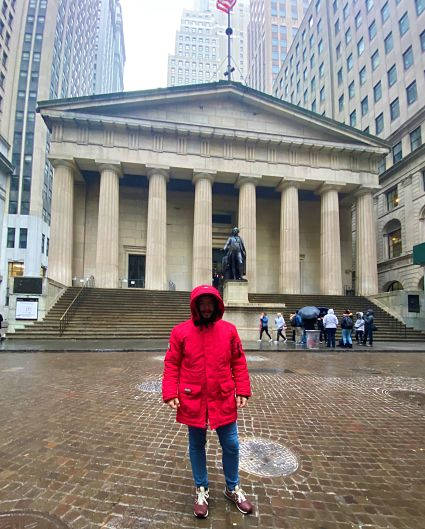
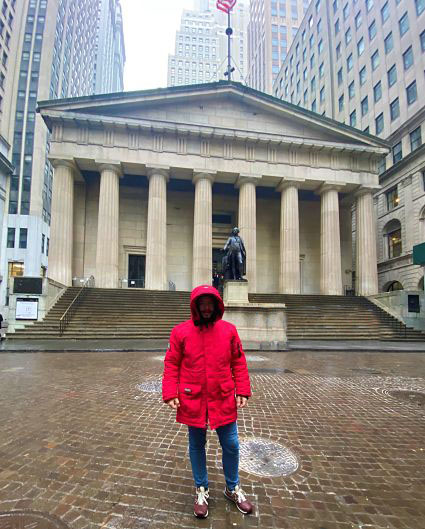
feat: eliminadas personas de algunas fotos

Changed region(s): [[0.6118, 0.5747, 0.9176, 0.6654]]

diff --git a/src/app/paginas/castilla/cuenca/cuenca.component.html b/src/app/paginas/castilla/cuenca/cuenca.component.html
@@ -1,138 +1,138 @@
 <div class="container">
-    <div class="row mt-5">
-        <div class="col-md-12 col-sm-12 mt-5 animated fadeIn slower">
-            <h1 class="tituloViaje text-center">Castilla la Mancha</h1>
-        </div>
+  <div class="row mt-5">
+    <div class="col-md-12 col-sm-12 mt-5 animated fadeIn slower">
+      <h1 class="tituloViaje text-center">Castilla la Mancha</h1>
     </div>
-    <div class="row">
-        <div class="col-md-12 col-sm-12 animated fadeIn slower">
-            <h1 class="tituloDiario text-center mb-3">Cuenca</h1>
-        </div>
+  </div>
+  <div class="row">
+    <div class="col-md-12 col-sm-12 animated fadeIn slower text-center">
+      <img class="panoramica mt-5 mb-5 slower" src="../../../assets/imagenes/galeriaCastilla/cuencapano.jpg">
     </div>
-    <div class="row">
-        <div class="col-md-12 col-sm-12 animated fadeIn slower text-center">
-            <img class="panoramica mt-5 mb-5 slower" src="../../../assets/imagenes/galeriaCastilla/cuencapano.jpg">
-        </div>
+  </div>
+  <div class="row">
+    <div class="col-md-12 col-sm-12 animated fadeIn slower">
+      <h1 class="tituloDiario text-center mb-3">Cuenca</h1>
     </div>
-    <div class="row">
-        <div class="col-md-12 col-sm-12 animated fadeIn slower text-justify">
-            Cuenca es otra de las ciudades castellanas que hay que visitar al menos una vez en la vida, sus casas
-            colgadas y sus calles intramuros que te trasladan al Siglo de Oro por su arquitectura de edificios
-            centenarios, todo esto no dejará lugar a dudas para catalogarla de ciudad preciosa y mágica. Por algo fue
-            denominada como Patrimonio de la Humanidad en 1996.
-        </div>
+  </div>
+  <div class="row">
+    <div class="col-md-12 col-sm-12 animated fadeIn slower text-justify">
+      Cuenca es otra de las ciudades castellanas que hay que visitar al menos una vez en la vida, sus casas
+      colgadas y sus calles intramuros que te trasladan al Siglo de Oro por su arquitectura de edificios
+      centenarios, todo esto no dejará lugar a dudas para catalogarla de ciudad preciosa y mágica. Por algo fue
+      denominada como Patrimonio de la Humanidad en 1996.
     </div>
-    <div class="row">
-        <div class="col-md-12 col-sm-12 animated fadeIn slower text-justify">
-            Por su ubicación imposible en las montañas y el transito del río Júcar a sus pies sus pobladores se remontan
-            al Paleolítico Superior, ahí es nada, pero es bajo dominio musulmán cuando se construye la primera fortaleza
-            en Qünka, nombre árabe. Conquistado por Alfonso VIII en 1177 fue uno de los grandes fueros castellanos del
-            medievo. Desde el siglo XVII la ciudad fue en decadencia hasta nuestros días que se trata de una de las
-            ciudades con más nombre de la España vaciada, hoy intentan hacer crecer el turismo gracias a su enorme
-            patrimonio cultural.
-        </div>
+  </div>
+  <div class="row">
+    <div class="col-md-12 col-sm-12 animated fadeIn slower text-justify">
+      Por su ubicación imposible en las montañas y el transito del río Júcar a sus pies sus pobladores se remontan
+      al Paleolítico Superior, ahí es nada, pero es bajo dominio musulmán cuando se construye la primera fortaleza
+      en Qünka, nombre árabe. Conquistado por Alfonso VIII en 1177 fue uno de los grandes fueros castellanos del
+      medievo. Desde el siglo XVII la ciudad fue en decadencia hasta nuestros días que se trata de una de las
+      ciudades con más nombre de la España vaciada, hoy intentan hacer crecer el turismo gracias a su enorme
+      patrimonio cultural.
     </div>
+  </div>
 
-    <div class="row">
-        <div class="col-md-12 col-sm-12 animated fadeIn slower text-justify">
-            Por empezar por algún lado podemos irnos al Convento de San Pablo, este convento construido por orden de los
-            dominicos en 1523 es un lugar sin parangón, se encuentra en una colina que une con las casas colgadas por el
-            puente del mismo nombre, hoy es un parador. Por ese mismo puente cruzaremos, pero antes unos datos, está a
-            40 metros de altura, construido en hierro y madera, prepararos para pasar vértigo, aunque no padezcáis mucho
-            del mismo, pero la experiencia mires a donde mires no tiene igual.
-        </div>
+  <div class="row">
+    <div class="col-md-12 col-sm-12 animated fadeIn slower text-justify">
+      Por empezar por algún lado podemos irnos al Convento de San Pablo, este convento construido por orden de los
+      dominicos en 1523 es un lugar sin parangón, se encuentra en una colina que une con las casas colgadas por el
+      puente del mismo nombre, hoy es un parador. Por ese mismo puente cruzaremos, pero antes unos datos, está a
+      40 metros de altura, construido en hierro y madera, prepararos para pasar vértigo, aunque no padezcáis mucho
+      del mismo, pero la experiencia mires a donde mires no tiene igual.
     </div>
-    <div class="row">
-        <div class="col-md-4 animated fadeIn slower mt-3 mb-1 text-center">
-            <img src="../../../assets/imagenes/galeriaCastilla/cuenca2.jpg" class="imgcronica slower">
-        </div>
-        <div class="col-md-4 animated fadeIn slower mt-3 mb-1 text-center">
-            <img src="../../../assets/imagenes/galeriaCastilla/cuenca3.jpg" class="imgcronica slower">
-        </div>
-        <div class="col-md-4 animated fadeIn slower mt-3 mb-1 text-center">
-            <img src="../../../assets/imagenes/galeriaCastilla/cuenca4.jpg" class="imgcronica slower">
-        </div>
+  </div>
+  <div class="row">
+    <div class="col-md-4 animated fadeIn slower mt-3 mb-1 text-center">
+      <img src="../../../assets/imagenes/galeriaCastilla/cuenca2.jpg" class="imgcronica slower">
     </div>
-    <div class="row">
-        <div class="col-md-12 col-sm-12 animated fadeIn slower text-justify">
-            Al otro lado nos esperan las famosas casas colgadas, imagen de la ciudad. Desde luego lo primero que nos
-            preguntamos es cómo es posible que hace más de 600 años construyesen las casas ahí. Hoy solo quedan tres, se
-            pueden visitar la casa de la Sirena, hoy restaurante, y la casa del Rey, hoy convertido en museo de arte
-            contemporáneo, nosotros elegimos este y nos encantó el contraste entre el arte actual y el vetusto edificio.
-        </div>
+    <div class="col-md-4 animated fadeIn slower mt-3 mb-1 text-center">
+      <img src="../../../assets/imagenes/galeriaCastilla/cuenca3.jpg" class="imgcronica slower">
     </div>
-    <div class="row">
-        <div class="col-md-12 col-sm-12 animated fadeIn slower text-justify">
-            La catedral se mandó construir con la toma de la ciudad por orden del monarca, aunque en España se construía
-            en románico esta fue construida en estilo gótico por la influencia normanda de la corte de la reina Leonor
-            de Plantagenet. Lo más destacable de su estilo es el primer gótico que no se estila en España y la hace
-            única, parece francesa. El precio es de 4,5€.
-        </div>
+    <div class="col-md-4 animated fadeIn slower mt-3 mb-1 text-center">
+      <img src="../../../assets/imagenes/galeriaCastilla/cuenca4.jpg" class="imgcronica slower">
     </div>
-    <div class="row">
-        <div class="col-md-12 col-sm-12 animated fadeIn slower text-justify">
-            En la misma plaza Mayor se encuentran tanto la catedral, como el ayuntamiento barroco, como las casas de
-            colores y el convento de las Petras. Es una zona de bares para tomar algo a cualquier hora.
-        </div>
+  </div>
+  <div class="row">
+    <div class="col-md-12 col-sm-12 animated fadeIn slower text-justify">
+      Al otro lado nos esperan las famosas casas colgadas, imagen de la ciudad. Desde luego lo primero que nos
+      preguntamos es cómo es posible que hace más de 600 años construyesen las casas ahí. Hoy solo quedan tres, se
+      pueden visitar la casa de la Sirena, hoy restaurante, y la casa del Rey, hoy convertido en museo de arte
+      contemporáneo, nosotros elegimos este y nos encantó el contraste entre el arte actual y el vetusto edificio.
     </div>
-    <div class="row">
-        <div class="col-md-12 col-sm-12 animated fadeIn slower text-justify">
-            El barrio del Castillo es una pasada, no por el castillo en sí que se encuentra en ruinas y solo queda el
-            arco de Bezudo sino por el paseo alrededor del casco histórico entre las hoces del Júcar y el Húecar.
-            También podréis visitar la Torre de Mangana, torre que parece más florentina que castellana y el convento de
-            San José, hoy convertido en hotel.
-        </div>
+  </div>
+  <div class="row">
+    <div class="col-md-12 col-sm-12 animated fadeIn slower text-justify">
+      La catedral se mandó construir con la toma de la ciudad por orden del monarca, aunque en España se construía
+      en románico esta fue construida en estilo gótico por la influencia normanda de la corte de la reina Leonor
+      de Plantagenet. Lo más destacable de su estilo es el primer gótico que no se estila en España y la hace
+      única, parece francesa. El precio es de 4,5€.
     </div>
-    <div class="row">
-        <div class="col-md-12 col-sm-12 animated fadeIn slower text-justify">
-            En la parte baja podemos encontrar el barrio de San Martín y sus famosos rascacielos, curiosas edificaciones
-            de hasta diez alturas al borde del Júcar, nosotros nos hospedamos en uno y las ventanas dan al río, vamos
-            que puedes saltar al agua sin ningún obstáculo en verano, ¡por favor no lo hagáis!
-        </div>
+  </div>
+  <div class="row">
+    <div class="col-md-12 col-sm-12 animated fadeIn slower text-justify">
+      En la misma plaza Mayor se encuentran tanto la catedral, como el ayuntamiento barroco, como las casas de
+      colores y el convento de las Petras. Es una zona de bares para tomar algo a cualquier hora.
     </div>
-    <div class="row">
-        <div class="col-md-6 animated fadeIn slower mt-3 mb-1 text-center">
-            <img src="../../../assets/imagenes/galeriaCastilla/cuenca5.jpg" class="imgcronica slower">
-        </div>
-        <div class="col-md-6 animated fadeIn slower mt-3 mb-1 text-center">
-            <img src="../../../assets/imagenes/galeriaCastilla/cuenca6.jpg" class="imgcronica slower">
-        </div>
+  </div>
+  <div class="row">
+    <div class="col-md-12 col-sm-12 animated fadeIn slower text-justify">
+      El barrio del Castillo es una pasada, no por el castillo en sí que se encuentra en ruinas y solo queda el
+      arco de Bezudo sino por el paseo alrededor del casco histórico entre las hoces del Júcar y el Húecar.
+      También podréis visitar la Torre de Mangana, torre que parece más florentina que castellana y el convento de
+      San José, hoy convertido en hotel.
     </div>
-    <div class="row">
-        <div class="col-md-12 col-sm-12 animated fadeIn slower">
-            <h1 class="tituloDiario text-center mt-3 mb-3">SEGÓBRIGA</h1>
-        </div>
+  </div>
+  <div class="row">
+    <div class="col-md-12 col-sm-12 animated fadeIn slower text-justify">
+      En la parte baja podemos encontrar el barrio de San Martín y sus famosos rascacielos, curiosas edificaciones
+      de hasta diez alturas al borde del Júcar, nosotros nos hospedamos en uno y las ventanas dan al río, vamos
+      que puedes saltar al agua sin ningún obstáculo en verano, ¡por favor no lo hagáis!
     </div>
-    <div class="row">
-        <div class="col-md-12 col-sm-12 animated fadeIn slower text-center">
-            <img class="panoramica mt-5 mb-5 slower" src="../../../assets/imagenes/galeriaCastilla/segobriga.jpg">
-        </div>
+  </div>
+  <div class="row">
+    <div class="col-md-6 animated fadeIn slower mt-3 mb-1 text-center">
+      <img src="../../../assets/imagenes/galeriaCastilla/cuenca5.jpg" class="imgcronica slower">
     </div>
-    <div class="row">
-        <div class="col-md-12 col-sm-12 animated fadeIn slower text-justify">
-            Si vais desde Madrid os pilla de paso el parque arqueológico de Segóbriga, antiguo poblado celtibero y
-            después romano cerca de Saelices. Se han encontrado restos del segundo milenio antes de Cristo, por lo tanto
-            de procedencia olcades o carpetanos. Hoy se conservan restos de este periodo, del periodo posterior, romano
-            y del visigodo.
-        </div>
+    <div class="col-md-6 animated fadeIn slower mt-3 mb-1 text-center">
+      <img src="../../../assets/imagenes/galeriaCastilla/cuenca6.jpg" class="imgcronica slower">
     </div>
-    <div class="row">
-        <div class="col-md-12 col-sm-12 animated fadeIn slower text-justify">
-            Tenemos un centro de interpretación para documentarnos antes de la visita y que nos ponga en el contexto
-            histórico que visitaremos, aunque se encuentra en ruinas como es obvio podemos ver bien su distribución y
-            está en unas condiciones bastante mejor que las de otros restos arqueológicos de España, a nosotros nos
-            gustó mucho la parada. Como nota negativa, la cartelería del sitio se encuentra en mala conservación y es
-            imposible leerla insitu.
-        </div>
+  </div>
+  <div class="row">
+    <div class="col-md-12 col-sm-12 animated fadeIn slower">
+      <h1 class="tituloDiario text-center mt-3 mb-3">SEGÓBRIGA</h1>
     </div>
-    <div class="row">
-        <div class="col-md-12 col-sm-12 mt-3 animated fadeIn slower text-justify conclusiones">
-            Como conclusión de nuestra visita en la que estuvimos un fin de semana, es que Cuenca se puede visitar en un
-            solo día, pero que es agradable para pasar un finde allí. Como hemos dicho la ciudad no os dejará
-            indiferente, tiene algo mágico. Está a tiro de Piedra desde Madrid o Valencia. En cuanto a Segóbriga si sois
-            enamorados de la historia no lo podéis perder, sino lo sois está en ruinas y hay que echar imaginación para
-            ver lo que supuso esta población milenaria. Que decir de la gastronomía, que ricos los zarajos y las migas o
-            el ajo arriero.
-        </div>
+  </div>
+  <div class="row">
+    <div class="col-md-12 col-sm-12 animated fadeIn slower text-center">
+      <img class="panoramica mt-5 mb-5 slower" src="../../../assets/imagenes/galeriaCastilla/segobriga.jpg">
     </div>
+  </div>
+  <div class="row">
+    <div class="col-md-12 col-sm-12 animated fadeIn slower text-justify">
+      Si vais desde Madrid os pilla de paso el parque arqueológico de Segóbriga, antiguo poblado celtibero y
+      después romano cerca de Saelices. Se han encontrado restos del segundo milenio antes de Cristo, por lo tanto
+      de procedencia olcades o carpetanos. Hoy se conservan restos de este periodo, del periodo posterior, romano
+      y del visigodo.
+    </div>
+  </div>
+  <div class="row">
+    <div class="col-md-12 col-sm-12 animated fadeIn slower text-justify">
+      Tenemos un centro de interpretación para documentarnos antes de la visita y que nos ponga en el contexto
+      histórico que visitaremos, aunque se encuentra en ruinas como es obvio podemos ver bien su distribución y
+      está en unas condiciones bastante mejor que las de otros restos arqueológicos de España, a nosotros nos
+      gustó mucho la parada. Como nota negativa, la cartelería del sitio se encuentra en mala conservación y es
+      imposible leerla insitu.
+    </div>
+  </div>
+  <div class="row">
+    <div class="col-md-12 col-sm-12 mt-3 animated fadeIn slower text-justify conclusiones">
+      Como conclusión de nuestra visita en la que estuvimos un fin de semana, es que Cuenca se puede visitar en un
+      solo día, pero que es agradable para pasar un finde allí. Como hemos dicho la ciudad no os dejará
+      indiferente, tiene algo mágico. Está a tiro de Piedra desde Madrid o Valencia. En cuanto a Segóbriga si sois
+      enamorados de la historia no lo podéis perder, sino lo sois está en ruinas y hay que echar imaginación para
+      ver lo que supuso esta población milenaria. Que decir de la gastronomía, que ricos los zarajos y las migas o
+      el ajo arriero.
+    </div>
+  </div>
 </div>

diff --git a/src/app/paginas/alemania/hamburgo/hamburgo.component.ts b/src/app/paginas/alemania/hamburgo/hamburgo.component.ts
@@ -8,19 +8,16 @@ import { Component } from '@angular/core';
 export class HamburgoComponent {
 
     // Carrusel de la portada
-    tituloCarrusel1 = 'Boston';
+    tituloCarrusel1 = 'Hamburgo';
     imagenCarrusel1 = '../../../assets/imagenes/galeriaHamburgo/hamburgo1.jpg';
-    descripcion1 = 'Massachusetts State House';
-    tituloCarrusel2 = 'Philadelphia';
+    tituloCarrusel2 = 'Sankt Pauli';
     imagenCarrusel2 = '../../../assets/imagenes/galeriaHamburgo/hamburgo3.jpg';
-    descripcion2 = 'Parque Love';
-    tituloCarrusel3 = 'Washington D.C.';
-    imagenCarrusel3 = '../../../assets/imagenes/galeriaHamburgo/dia6-5.jpg';
-    descripcion3 = 'Capitolio';
-    tituloCarrusel4 = 'Nueva York';
-    imagenCarrusel4 = '../../../assets/imagenes/galeriaHamburgo/dia7-3.jpg';
-    tituloCarrusel5 = 'Brooklyn';
-    imagenCarrusel5 = '../../../assets/imagenes/galeriaHamburgo/dia9-5.jpg';
+    tituloCarrusel3 = 'Stade';
+    imagenCarrusel3 = '../../../assets/imagenes/galeriaHamburgo/stade.jpg';
+    tituloCarrusel4 = 'Stade';
+    imagenCarrusel4 = '../../../assets/imagenes/galeriaHamburgo/stade3.jpg';
+    tituloCarrusel5 = 'Neuengamme';
+    imagenCarrusel5 = '../../../assets/imagenes/galeriaHamburgo/neuengamme1.jpg';
 
     // Tarjetas de cada dia
     tituloDia1 = 'Día 1 - Hamburgo';
@@ -28,7 +25,7 @@ export class HamburgoComponent {
     enlaceDia1 = '/hamburgo';
 
     tituloDia2 = 'Día 2 - Stade y Neuengamme';
-    imagenDia2 = '../../../assets/imagenes/galeriaHamburgo/dia1-1.jpg';
+    imagenDia2 = '../../../assets/imagenes/galeriaHamburgo/stade.jpg';
     enlaceDia2 = '/stade-y-neuengamme';
 
     //   tituloDia3 = 'Día 3 - Bremen';

diff --git a/src/app/paginas/alemania/hamburgo/hamburgo.component.html b/src/app/paginas/alemania/hamburgo/hamburgo.component.html
@@ -3,13 +3,10 @@
 <app-carrusel
   [imagen1]="imagenCarrusel1"
   [titulo1]="tituloCarrusel1"
-  [descripcion1]="descripcion1"
   [imagen2]="imagenCarrusel2"
   [titulo2]="tituloCarrusel2"
-  [descripcion2]="descripcion2"
   [imagen3]="imagenCarrusel3"
   [titulo3]="tituloCarrusel3"
-  [descripcion3]="descripcion3"
   [imagen4]="imagenCarrusel4"
   [titulo4]="tituloCarrusel4"
   [imagen5]="imagenCarrusel5"
